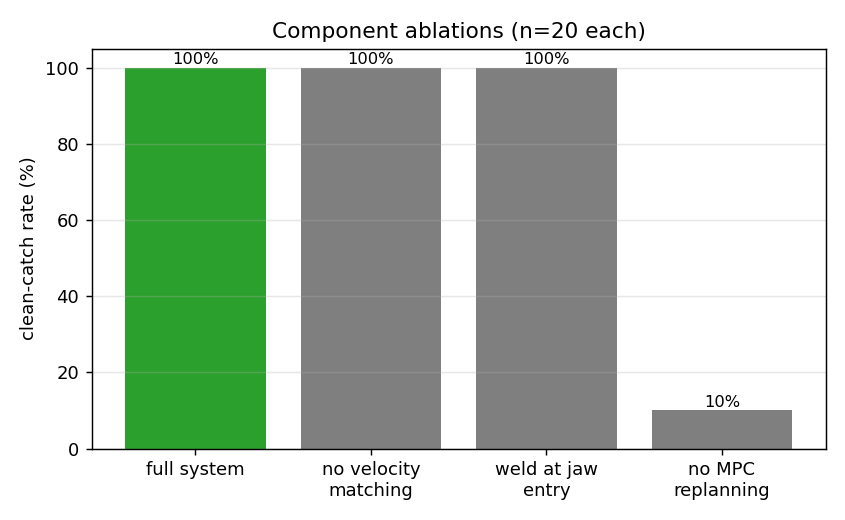
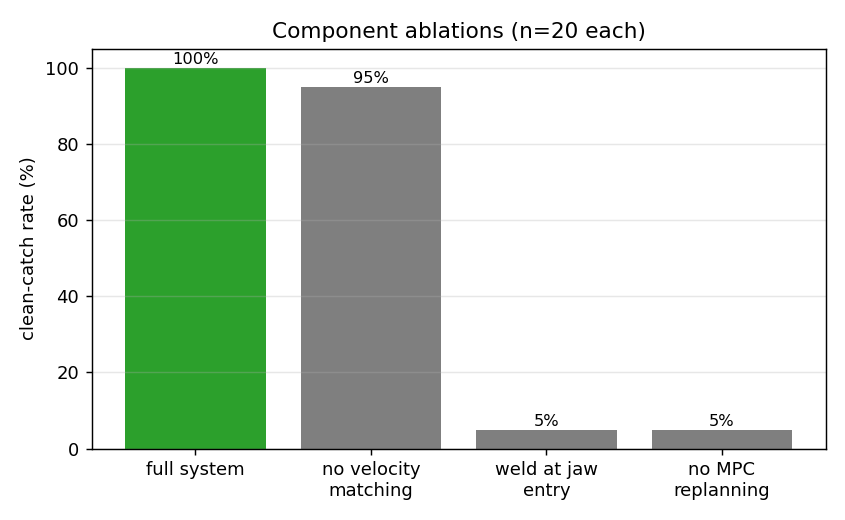
Catch criterion: require the ball to hold the fingers apart
The clean-catch check accepted any finger position above the open stop
(qpos > -0.45) -- but the polarity runs 0 = closed, so a gripper closed on
NOTHING (~0) passed the very case the check exists to reject. The
criterion is now the discriminating band -0.45 < qpos < -0.2: a gripped
70 mm ball leaves the finger joint at -0.36..-0.27, an empty closed
gripper at ~0, a still-open one at -0.785.

Re-ran the full catching benchmark under the stricter check. The headline
results hold (full system 1.0 across difficulty 0.40-0.58; 0.95 at 0.32),
but the false positives it removes are telling: the 'weld at jaw entry'
ablation collapses 1.0 -> 0.05 -- jaw-edge welds almost never produce a
real grip, which is exactly why the full system welds at the centred,
velocity-matched catch point. Vision-noise tail is now honest too
(8-9/10 at 7.5-15 mm added noise, was a flat 1.0). CSVs, figures and the
README claim updated; all 13 catch tests pass under the stricter check.

Changed region(s): [[0.5538, 0.0923, 0.7385, 0.8308], [0.3385, 0.0923, 0.5231, 0.1846], [0.7692, 0.7385, 0.9538, 0.8308]]

diff --git a/benchmarks/catching_benchmark.py b/benchmarks/catching_benchmark.py
@@ -60,7 +60,11 @@ def _episode(model, data, bq, bdof, fadr, key, catcher, L, v0, steps=None):
     if not catcher.caught:
         return False
     near = np.linalg.norm(catcher.ball_pos() - catcher.grasp_pos())
-    return bool(catcher.ball_pos()[2] > 0.45 and near < 0.10 and data.qpos[fadr] > -0.45)
+    # fingers must be HELD APART by the ball: fully open is -0.7854, fully
+    # closed (on nothing) settles at ~0 -- both are failures. A gripped 70 mm
+    # ball leaves the finger joint in a mid band.
+    return bool(catcher.ball_pos()[2] > 0.45 and near < 0.10
+                and -0.45 < data.qpos[fadr] < -0.2)
 
 
 def _rate(model, data, addrs, key, catcher, n, seed, tf_range=(0.38, 0.60)):

diff --git a/tests/test_catch.py b/tests/test_catch.py
@@ -154,7 +154,7 @@ def test_dynamic_clean_catch():
         preposition_gap.append(np.linalg.norm(catcher.plan.p - gp0))
         near = np.linalg.norm(catcher.ball_pos() - catcher.grasp_pos())
         held = catcher.ball_pos()[2] > 0.45 and near < 0.10
-        gripped = data.qpos[fadr] > -0.45           # fingers closed off the open stop
+        gripped = -0.45 < data.qpos[fadr] < -0.2    # fingers held apart by the ball
         if held and gripped and ori_at_catch < 20:
             clean += 1
 
@@ -211,7 +211,7 @@ def test_vision_driven_catch():
             mujoco.mj_step(model, data)
         if catcher.caught:
             near = np.linalg.norm(catcher.ball_pos() - catcher.grasp_pos())
-            if catcher.ball_pos()[2] > 0.45 and near < 0.10 and data.qpos[fadr] > -0.45:
+            if catcher.ball_pos()[2] > 0.45 and near < 0.10 and -0.45 < data.qpos[fadr] < -0.2:
                 clean += 1
     assert clean >= 2, f"vision-driven clean catches {clean}/{N}"
 

diff --git a/README.md b/README.md
@@ -232,8 +232,8 @@ mid-air catches across 4 seeds**, ~11 cm mean reach to the interception (the arm
 **The robot does not know where the ball is thrown** — it works the trajectory out
 as the ball flies. With `--vision` it observes the ball through **two RGB-D
 cameras** (detect → deproject → fuse → Kalman filter) instead of ground-truth
-state — fused estimate **~7 mm**, catch rate **9–10/10** (robust to +5 mm sensor
-noise). The robot's-eye view (detected ball crosshaired):
+state — fused estimate **~7 mm**, catch rate **10/10** up to 5 mm added sensor
+noise (8–9/10 out to 15 mm). The robot's-eye view (detected ball crosshaired):
 
 <p align="center"><img height="220" alt="What the catching camera sees" src="media/catch_camera_view.png" /></p>
 